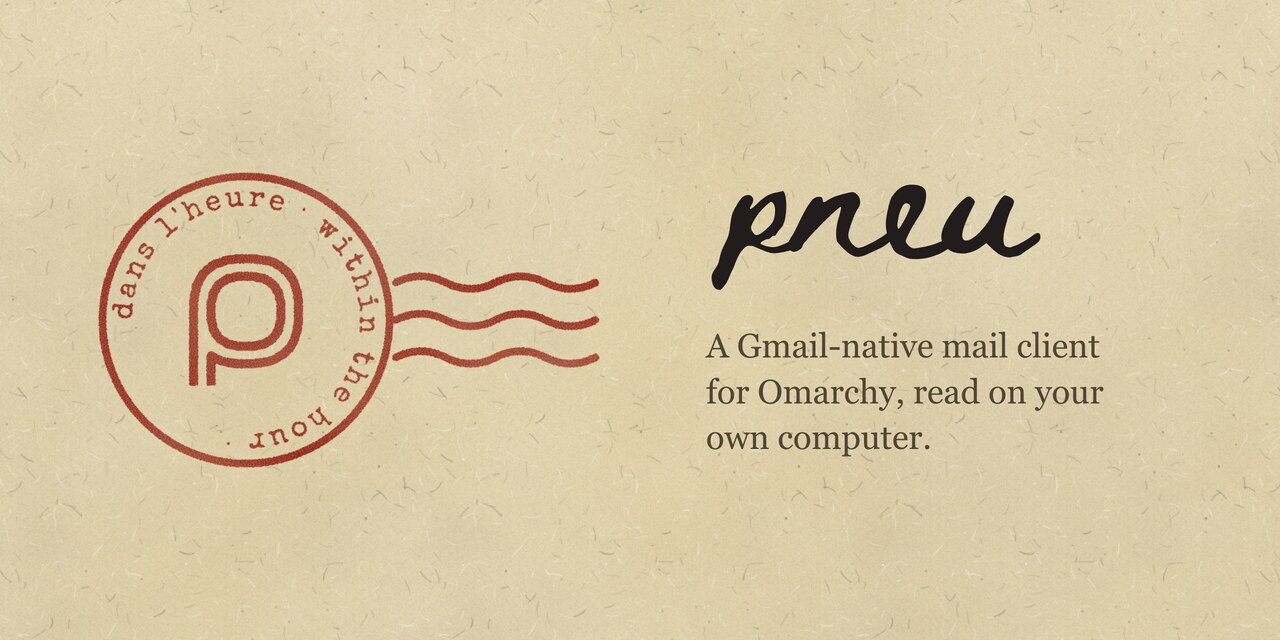
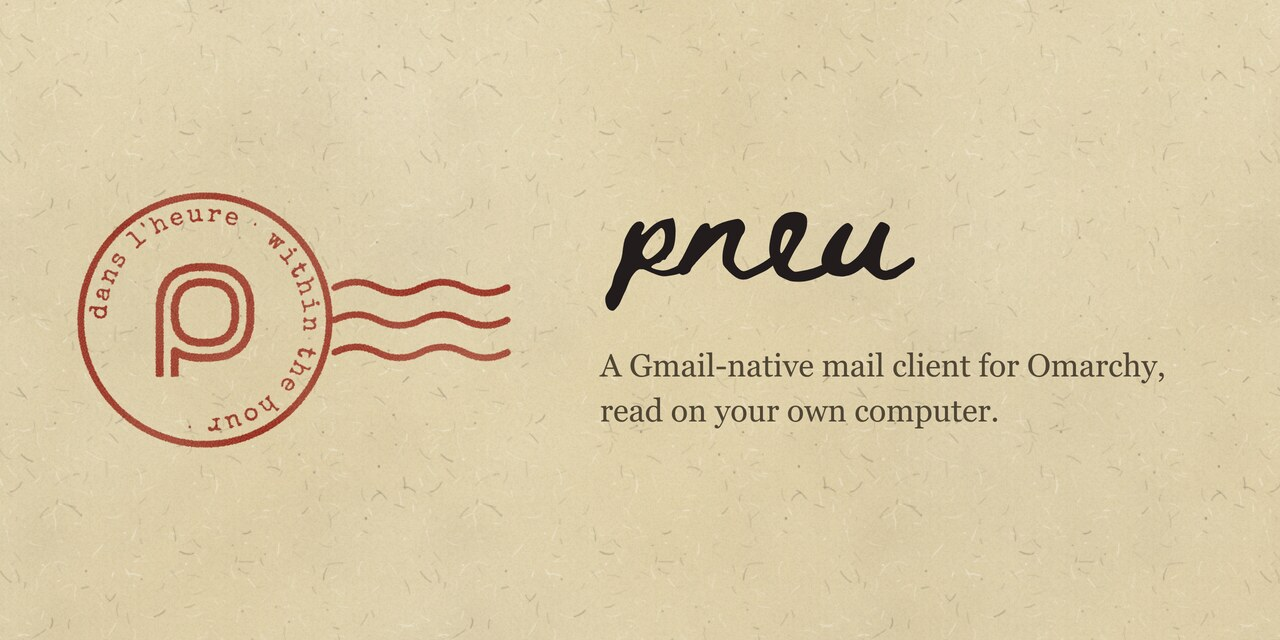
pneu: set the card's line in two balanced lines

Changed region(s): [[0.0625, 0.25, 0.9062, 0.75]]

diff --git a/pneu/social.html b/pneu/social.html
@@ -12,20 +12,20 @@
 <style>
   html, body { margin: 0; width: 1280px; height: 640px; overflow: hidden; }
   body {
-    display: flex; align-items: center; gap: 96px; padding: 0 110px; box-sizing: border-box;
+    display: flex; align-items: center; gap: 80px; padding: 0 90px; box-sizing: border-box;
     background: url(tex/paper.webp) 0 0 / 420px, url(tex/mottle.webp) 0 0 / 1100px, #e2d3ab;
-    color: #221c1d; font: 34px/1.35 Georgia, "Iowan Old Style", serif;
+    color: #221c1d; font: 32px/1.4 Georgia, "Iowan Old Style", serif;
   }
-  .stamp { width: 520px; height: auto; mix-blend-mode: multiply; flex: none; margin-left: -20px; }
-  .name { display: block; width: 340px; height: auto; margin: 0 0 28px; }
-  p { margin: 0; max-width: 440px; color: #4f4636; }
+  .stamp { width: 450px; height: auto; mix-blend-mode: multiply; flex: none; margin-left: -20px; }
+  .name { display: block; width: 320px; height: auto; margin: 0 0 28px; }
+  p { margin: 0; color: #4f4636; white-space: nowrap; }
 </style>
 </head>
 <body>
 <img class="stamp" src="stamp-inked.webp" alt="">
 <div>
   <img class="name" src="wordmark-ink.svg" alt="pneu">
-  <p>A Gmail-native mail client for Omarchy, read on your own computer.</p>
+  <p>A Gmail-native mail client for Omarchy,<br>read on your own computer.</p>
 </div>
 </body>
 </html>
